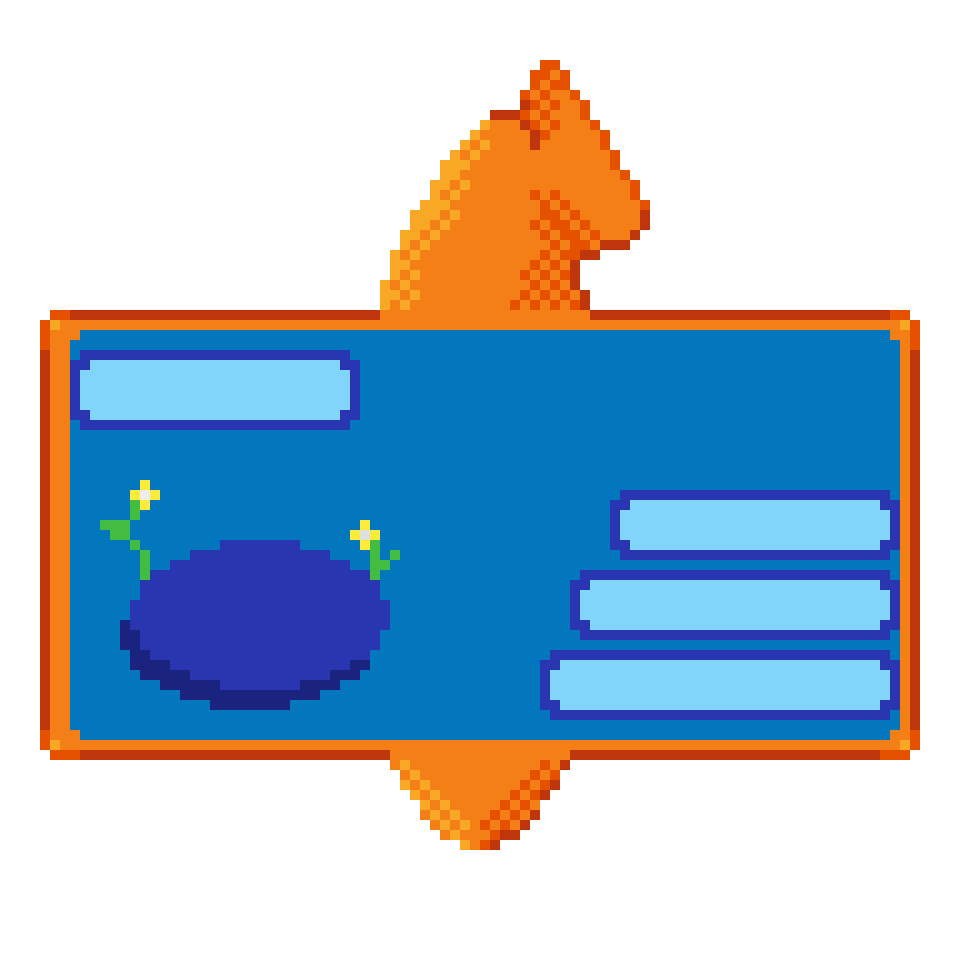
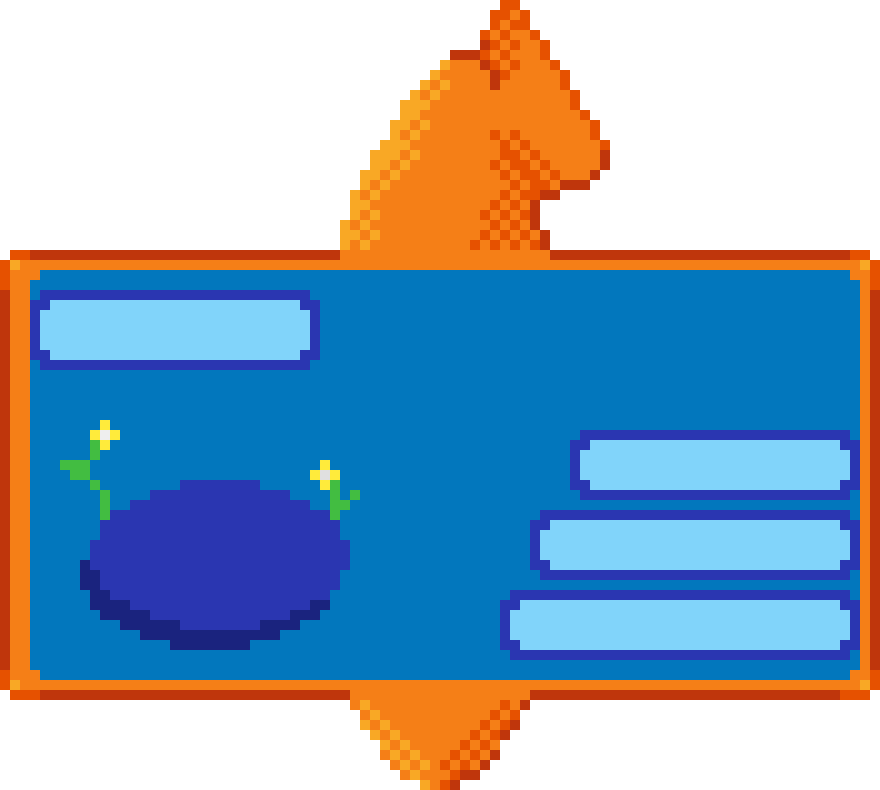
fix: responsividade em telas menores

diff --git a/src/app/components/home/home.component.scss b/src/app/components/home/home.component.scss
@@ -1,81 +1,173 @@
-.container{
-    display: inline-block;
-    position: relative;
+.container-pai{
+    display: flex;
+    justify-content: center;
+    align-items: center;
+    width: 100%;
+    height: 100vh;
+    background-image: url(/assets/images/background.jpg);
+    background-repeat: no-repeat;
+    background-size: cover;
+
+    .pokedex-2{
+        display: none;
+    }
     
-    .form{
-        position: absolute;
-        top: 39%;
-        left: 12%;
-      
-        .input-search{
-            width: 110%;
-            padding: 4%;
-            border: 2px solid blue;
-            border-radius: 5px;
+    .container{
+        display: inline-block;
+        position: relative;
+        animation: jump 3.5s infinite ease-in-out;
+        
+        .form{
+            position: absolute;
+            top: 40%;
+            left: 9%;
+            max-width: 100%;
+        
+            .input-search{
+                width: 110%;
+                padding: 4%;
+                border: 2px solid blue;
+                border-radius: 5px;
+            }
         }
-    }
 
-    .pokemon-icon1{
-        position: absolute;
-        top: 56%;
-        left: 57%
-    }
+        .pokemon-icon1{
+            position: absolute;
+            top: 61%;
+            left: 57%
+        }
 
-    .pokemon-icon2{
-        position: absolute;
-        top: 64%;
-        left: 53%
-    }
+        .pokemon-icon2{
+            position: absolute;
+            top: 71%;
+            left: 53%
+        }
 
-    .pokemon-icon3{
-        position: absolute;
-        top: 73%;
-        left: 50%
-    }
+        .pokemon-icon3{
+            position: absolute;
+            top: 81%;
+            left: 50%
+        }
 
-    .pokemon-data1{
-        position: absolute;
-        top: 53%;
-        left: 66%;
+        .pokemon-data1{
+            position: absolute;
+            top: 56%;
+            left: 66%;
+            
+        }
+        
+        .pokemon-data2{
+            position: absolute;
+            top: 66%;
+            left: 62%;
+        }
+
+        .pokemon-data3{
+            position: absolute;
+            top: 76%;
+            left: 58%;
+
+        }
+
+        .pokemon-icon{
+            animation: jump 0.5s infinite ease-in-out;
+
+        }
+
+        .pokemon{
+            position: absolute;
+            bottom: 27%;
+            left: 16%;
+            min-height: 20%;
+        }
+        
+        @keyframes jump{
+            0%, 100% {
+                transform: translateY(0);
+            }
+            50% {
+                transform: translateY(-10px);
+            }
+        }
         
     }
-    
-    .pokemon-data2{
-        position: absolute;
-        top: 61%;
-        left: 62%;
-    }
 
-    .pokemon-data3{
-        position: absolute;
-        top: 69%;
-        left: 58%;
-
-    }
-
-    .pokemon-icon{
-        animation: jump 0.5s infinite ease-in-out;
-
-    }
-    
-    @keyframes jump{
-        0%, 100% {
-            transform: translateY(0);
+    @media (max-width: 830px){
+        .pokedex {
+            display: none;
         }
-        50% {
-            transform: translateY(-10px);
+
+        .pokedex-2 {
+            display: block;
         }
-    }
+
+        .container{
+        
+            .form{
+                position: absolute;
+                top: 27.4%;
+                left: 17%;
+                max-width: 100%;
+            
+                .input-search{
+                    width: 110%;
+                    padding: 4%;
+                    border: 2px solid rgb(0, 0, 0);
+                    border-radius: 5px;
+                }
+            }
     
+            .pokemon-icon1{
+                position: absolute;
+                top: 66%;
+                left: 15%
+            }
     
-    .pokedex{
-        max-width: 100%;
+            .pokemon-icon2{
+                position: absolute;
+                top: 72%;
+                left: 6%
+            }
+    
+            .pokemon-icon3{
+                position: absolute;
+                top: 79%;
+                left: 0%
+            }
+    
+            .pokemon-data1{
+                position: absolute;
+                top: 62.5%;
+                left: 29%;
+                
+            }
+            
+            .pokemon-data2{
+                position: absolute;
+                top: 69%;
+                left: 20%;
+            }
+    
+            .pokemon-data3{
+                position: absolute;
+                top: 76%;
+                left: 14%;
+    
+            }
+    
+            .pokemon-icon{
+                animation: jump 0.5s infinite ease-in-out;
+    
+            }
+    
+            .pokemon{
+                position: absolute;
+                bottom: 48%;
+                left: 32%;
+                min-height: 13%;
+            }
+        }
+
     }
 
-    .pokemon{
-        position: absolute;
-        bottom: 33%;
-        left: 16%;
-        min-height: 20%;
-    }
 }

diff --git a/src/app/components/home/home.component.html b/src/app/components/home/home.component.html
@@ -1,42 +1,46 @@
-<div class="container" *ngIf="pokemonAtual">
-  <h1 class="pokemon-data1" *ngIf="pokemonAnterior" (click)="setPokemonAtual(pokemonAnterior)">
-    <span class="pokemon-id">nº{{ pokemonAnterior.id }}-</span>
-    <span class="pokemon-nome">{{ pokemonAnterior.name }}</span>
-  </h1>
-  
-  <h1 class="pokemon-data2">
-    <span class="pokemon-id">nº{{ pokemonAtual.id }}-</span>
-    <span class="pokemon-nome">{{ pokemonAtual.name }}</span>
-  </h1>
-  
-  <h1 class="pokemon-data3" *ngIf="pokemonProximo" (click)="setPokemonAtual(pokemonProximo)">
-    <span class="pokemon-id">nº{{ pokemonProximo.id }}-</span>
-    <span class="pokemon-nome">{{ pokemonProximo.name }}</span>
-  </h1>
-  
-  <div class="pokemon-icon1">
-    <img class="pokemon" [src]="getPokemonImageIcon(pokemonAnterior?.id)">
-  </div>
-  
-  <div class="pokemon-icon2">
-    <img class="pokemon pokemon-icon" [src]="getPokemonImageIcon(pokemonAtual.id)">
-  </div>
+<div class="container-pai">
 
-  <div class="pokemon-icon3">
-    <img class="pokemon" [src]="getPokemonImageIcon(pokemonProximo?.id)">
+  <div class="container" *ngIf="pokemonAtual">
+    <h1 class="pokemon-data1" *ngIf="pokemonAnterior" (click)="setPokemonAtual(pokemonAnterior)">
+      <span class="pokemon-id">nº{{ pokemonAnterior.id }}-</span>
+      <span class="pokemon-nome">{{ pokemonAnterior.name }}</span>
+    </h1>
+    
+    <h1 class="pokemon-data2">
+      <span class="pokemon-id">nº{{ pokemonAtual.id }}-</span>
+      <span class="pokemon-nome">{{ pokemonAtual.name }}</span>
+    </h1>
+    
+    <h1 class="pokemon-data3" *ngIf="pokemonProximo" (click)="setPokemonAtual(pokemonProximo)">
+      <span class="pokemon-id">nº{{ pokemonProximo.id }}-</span>
+      <span class="pokemon-nome">{{ pokemonProximo.name }}</span>
+    </h1>
+    
+    <div class="pokemon-icon1">
+      <img class="pokemon" [src]="getPokemonImageIcon(pokemonAnterior?.id)">
+    </div>
+    
+    <div class="pokemon-icon2">
+      <img class="pokemon pokemon-icon" [src]="getPokemonImageIcon(pokemonAtual.id)">
+    </div>
+  
+    <div class="pokemon-icon3">
+      <img class="pokemon" [src]="getPokemonImageIcon(pokemonProximo?.id)">
+    </div>
+  
+    <form class="form" (submit)="buscarPokemon()">
+      <input
+        type="search"
+        class="input-search"
+        placeholder="Nome ou Número do PkM"
+        [(ngModel)]="busca"
+        name="busca"
+        required
+      >
+    </form>
+  
+    <img class="pokemon" [src]="getPokemonImageGif(pokemonAtual.id)">
+    <img src="assets/images/rotom_phone.png" class="pokedex">
+    <img src="assets/images/rotom_phone2.png" class="pokedex-2">
   </div>
-
-  <form class="form" (submit)="buscarPokemon()">
-    <input
-      type="search"
-      class="input-search"
-      placeholder="Nome ou Número do PkM"
-      [(ngModel)]="busca"
-      name="busca"
-      required
-    >
-  </form>
-
-  <img class="pokemon" [src]="getPokemonImageGif(pokemonAtual.id)">
-  <img src="assets/images/rotom_phone.png" class="pokedex">
 </div>

diff --git a/src/app/components/home/home.component.ts b/src/app/components/home/home.component.ts
@@ -39,8 +39,6 @@ export class HomeComponent implements OnInit {
         this.pokemonAnterior = null;
       }
       
-  
-      
       if (id < 151) {
         this.pokeApiService.getPokemonById(id + 1).subscribe(pokeProx => {
           this.pokemonProximo = pokeProx;
@@ -49,9 +47,6 @@ export class HomeComponent implements OnInit {
       } else {
         this.pokemonProximo = null;
       }
-      
-  
-      
       
     });
   }

diff --git a/src/styles.scss b/src/styles.scss
@@ -4,12 +4,3 @@
     font-family: "Pixelify Sans", sans-serif;
 }
 
-body{
-    background-image: url('assets/images/background.jpg');
-    background-repeat: no-repeat;
-    overflow: hidden;
-    backdrop-filter: blur(10px);
-    min-height: 100vh;
-    box-sizing: border-box;
-    text-align: center;
-}
